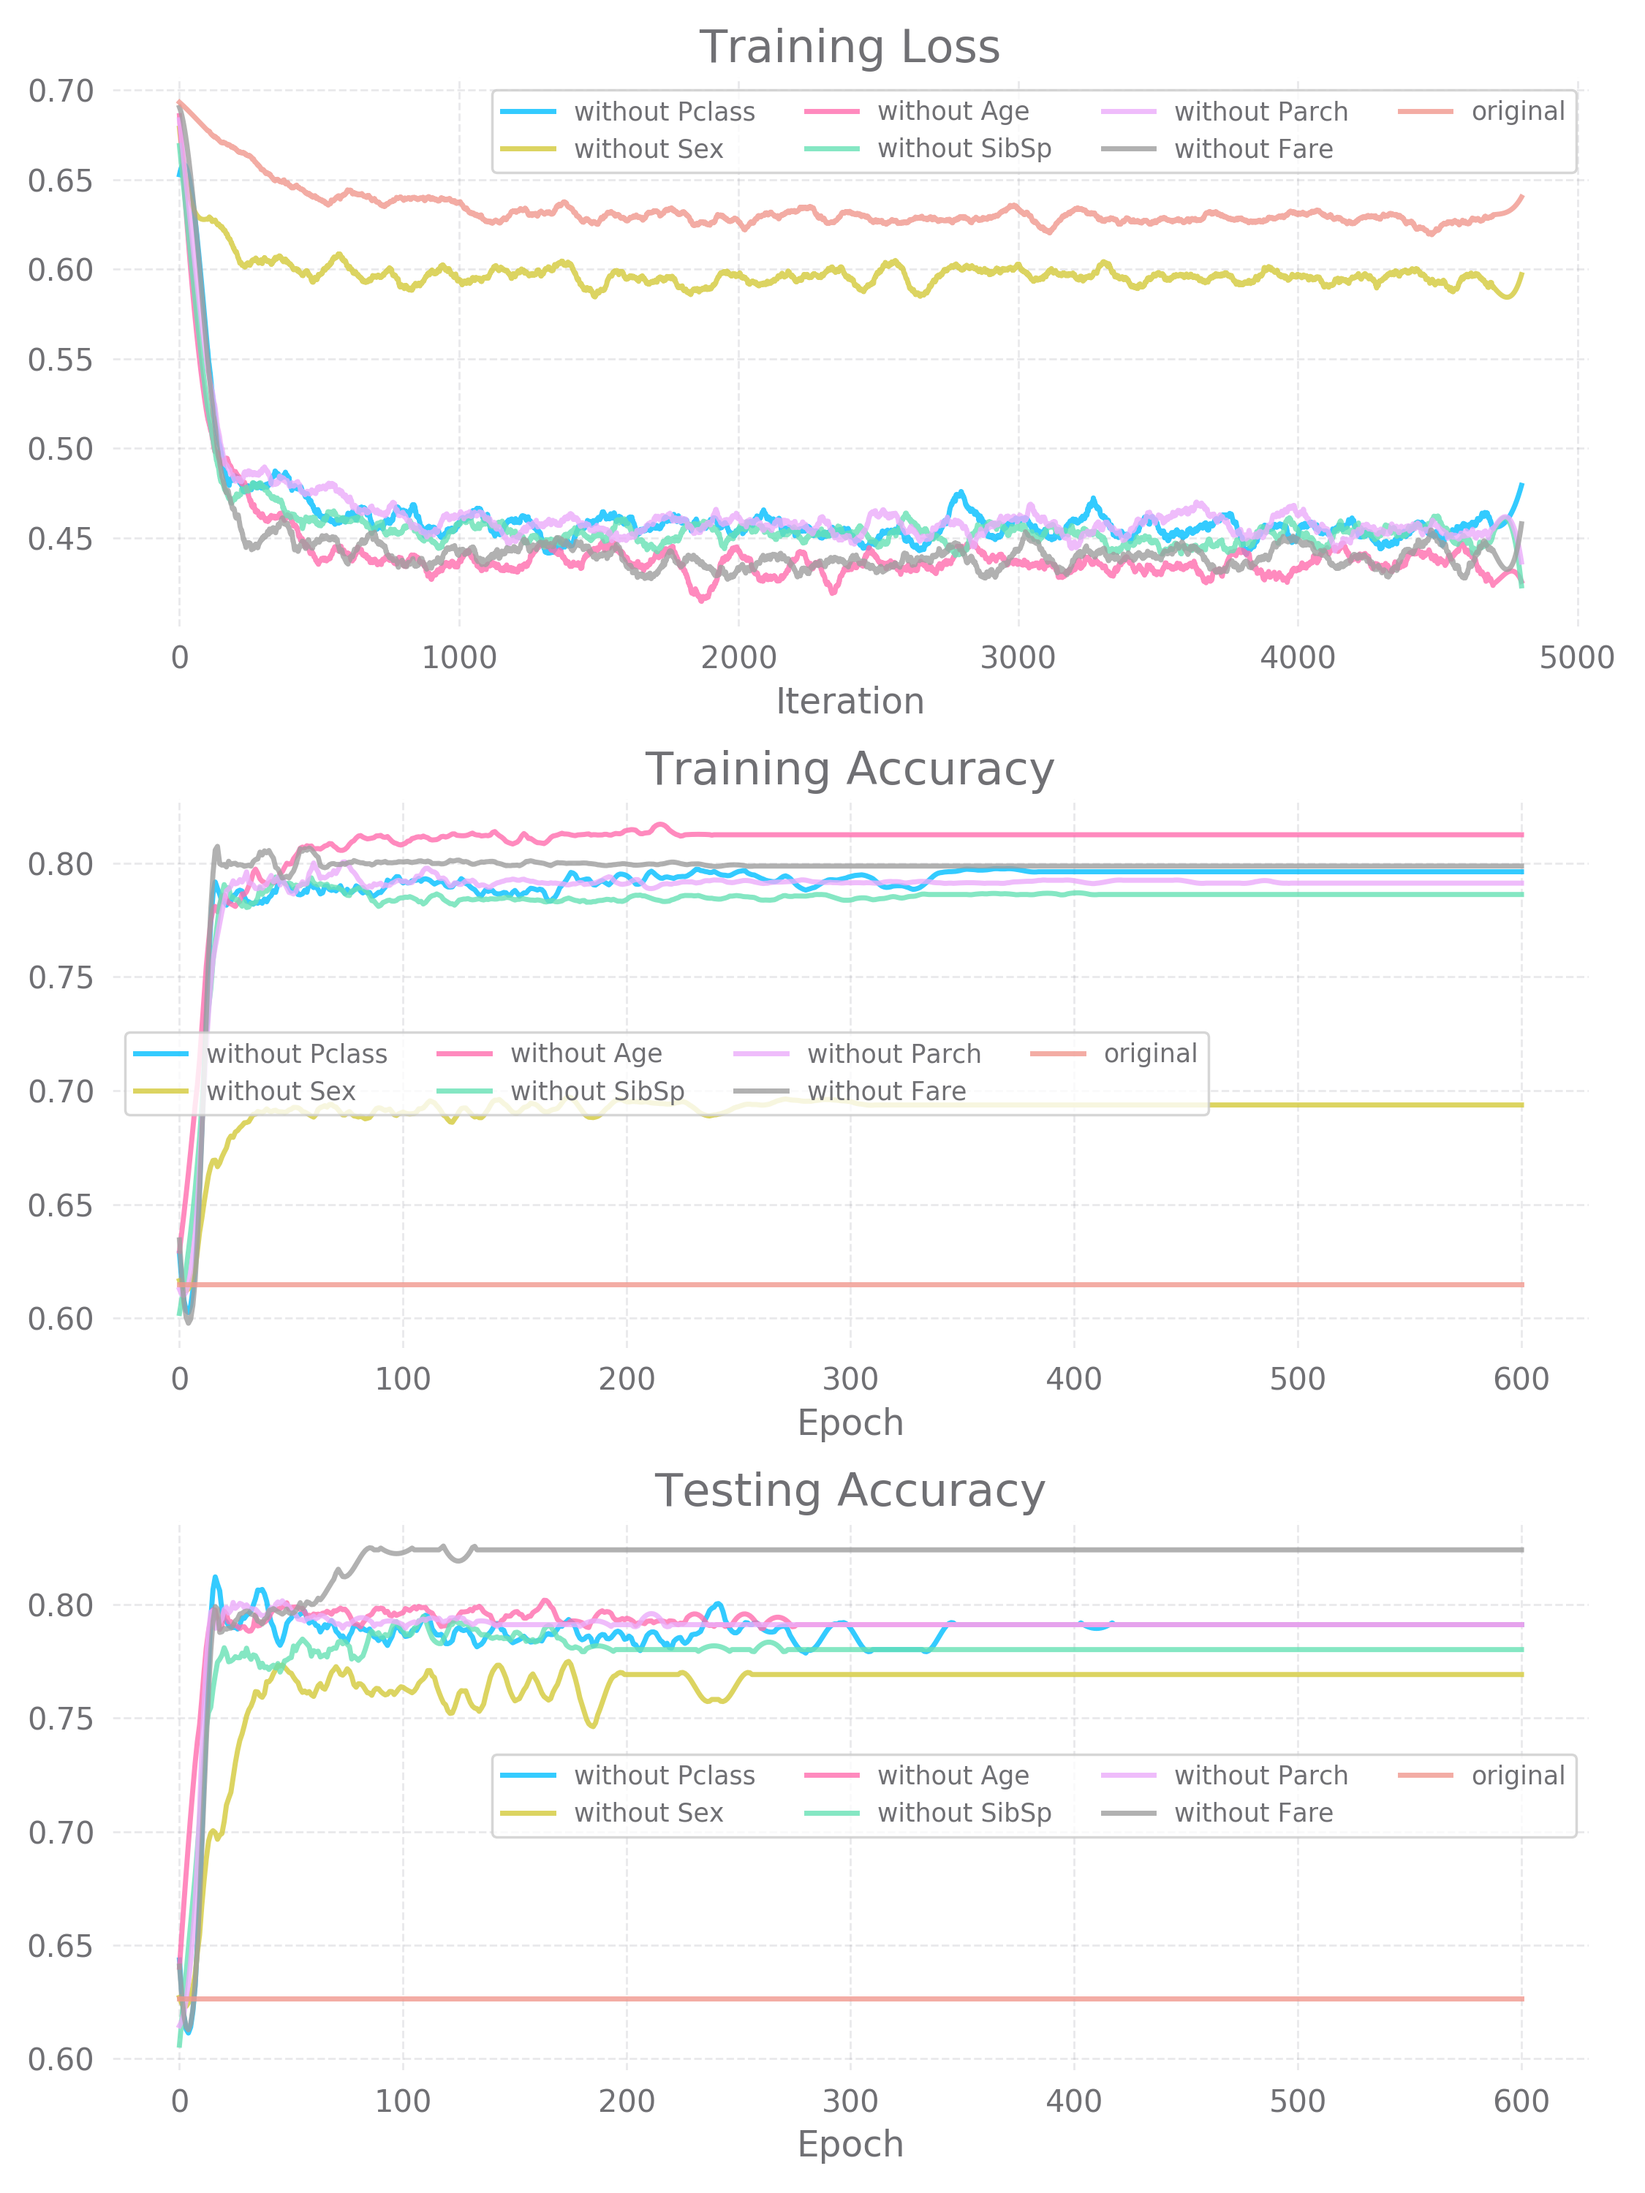
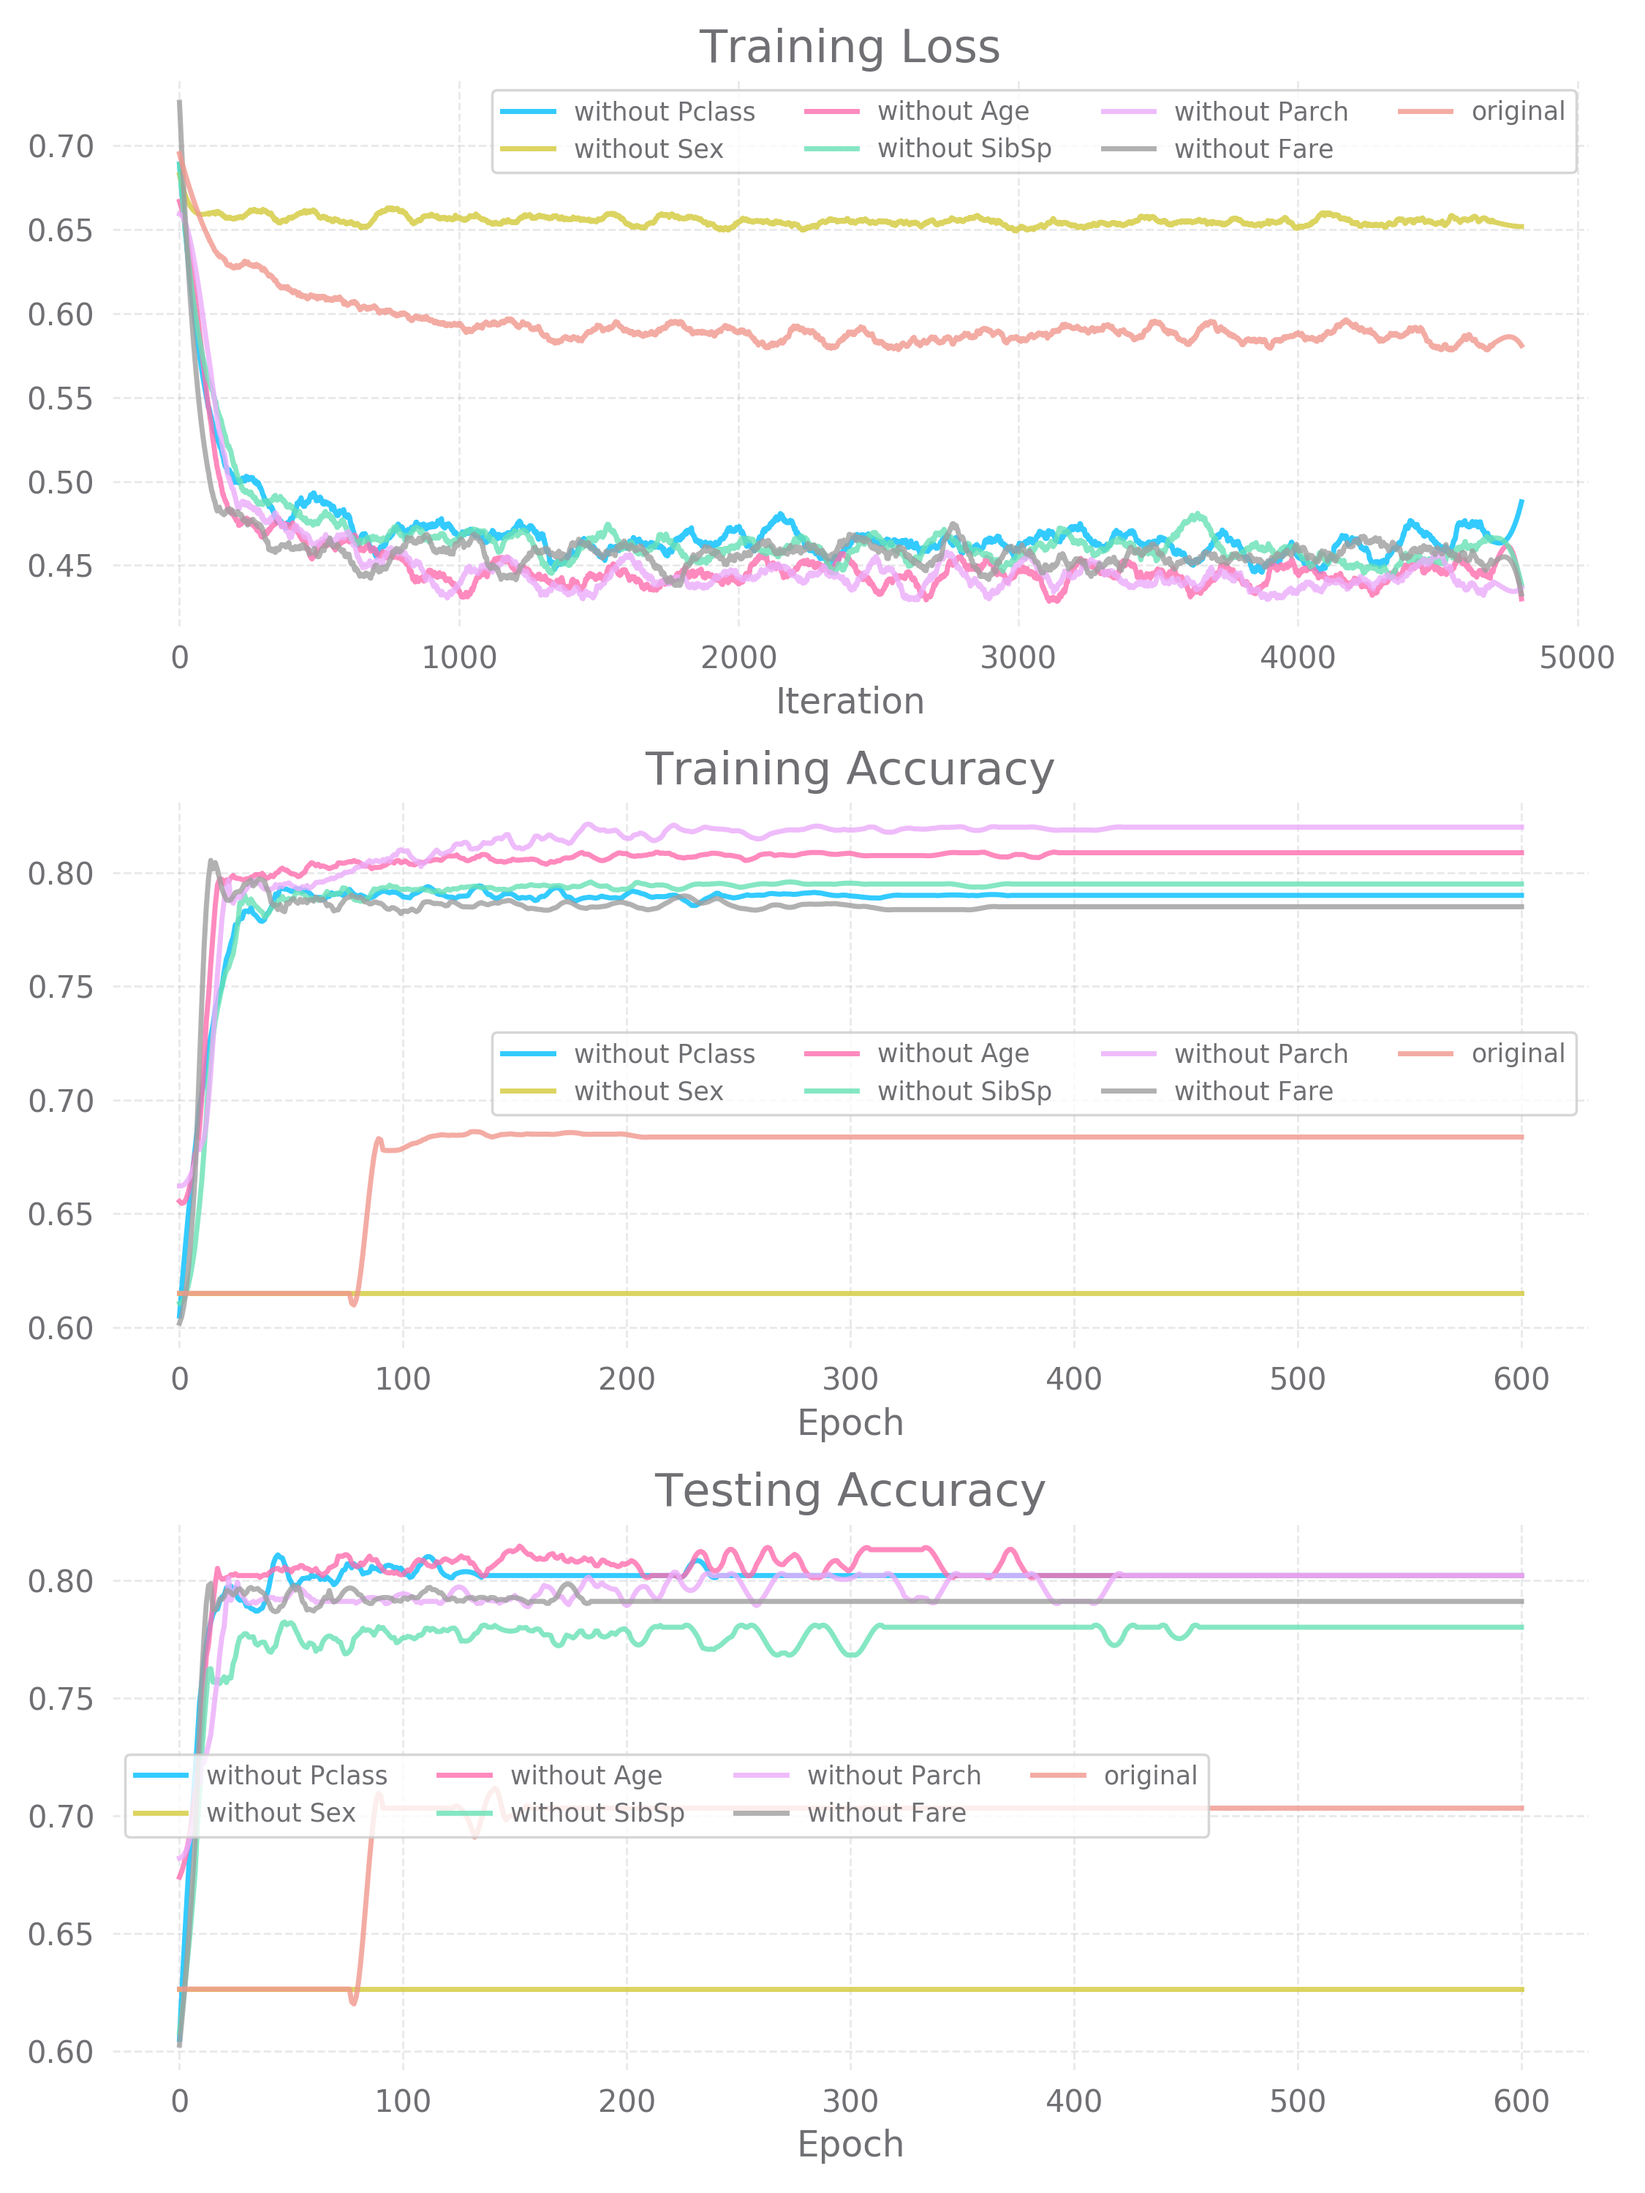
update utils

diff --git a/main.py b/main.py
@@ -8,6 +8,7 @@ import tqdm
 from scipy import signal
 from solver import Solver
 from model import FullyConnectedNet
+from util import *
 
 try:
     plt.style.use('gadfly')
@@ -16,245 +17,9 @@ except:
     pass
 
 np.random.seed(0)
-# plt.style.use('ggplot')
 OPTIMIZER = 'adam'
 NUM_EPOCH = 400
 
-
-def hyperpara_combination(hp_range, cur_set=[]):
-    if cur_set == []:
-        hp, r = list(hp_range.items())[0]
-        if not isinstance(r, list):
-            cur_set = [{hp: r}]
-        else:
-            cur_set = list(map(lambda x: {hp: x}, r))
-        del hp_range[hp]
-    if hp_range == {}:
-        return cur_set
-    else:
-        next_set = []
-        hp, r = list(hp_range.items())[0]
-        # print(hp, r)
-        if not (isinstance(r, list)):
-            tmp_set = copy.deepcopy(cur_set)
-            for i in tmp_set:
-                i.update({hp: r})
-            _ = map(lambda x: x.update({hp: r}), tmp_set)
-            # print('->', tmp_set)
-            next_set = next_set + tmp_set
-        else:
-            for j in r:
-                tmp_set = copy.deepcopy(cur_set)
-                for i in tmp_set:
-                    i.update({hp: j})
-                next_set = next_set + tmp_set
-                # print('->', tmp_set)
-        del hp_range[hp], cur_set
-        # print('->', next_set)
-        return hyperpara_combination(hp_range, next_set)
-
-
-def grid_search(data, **kwargs):
-    hp_range = {
-        'in_dim': kwargs.get('in_dim', 6),
-        'bs': kwargs.get('batch_size', 8),
-        'ws': kwargs.get('weight_scale', 1e-1),
-        'reg': kwargs.get('reg', 1e-3),
-        'lr_dec': kwargs.get('lr_dec', 0.99),
-        'lr': kwargs.get('lr', 1e-3)
-    }
-    # print(hp_range)
-    hyper_set = hyperpara_combination(hp_range)
-    # print(hyper_set)
-    acc = []
-    for s in tqdm.tqdm(hyper_set):
-        model = FullyConnectedNet([3, 3],
-                                  input_dim=s['in_dim'],
-                                  num_classes=2,
-                                  weight_scale=s['ws'],
-                                  reg=s['reg'])
-        solver = Solver(
-            model,
-            data,
-            update_rule=OPTIMIZER,
-            optim_config={
-                'learning_rate': s['lr'],
-            },
-            lr_decay=s['lr_dec'],
-            num_epochs=NUM_EPOCH,
-            batch_size=s['bs'],
-            print_every=100,
-            verbose=False)
-        solver.train()
-        acc.append(solver.check_accuracy(data['X_val'], data['y_val']))
-    print(max(acc))
-    print(hyper_set[np.argmax(acc)])
-    return
-
-
-def plot(solver, filename, a=1, m='-o'):
-    plt.subplot(3, 1, 1)
-    plt.title('Training Loss')
-    plt.xlabel('Iteration')
-
-    plt.subplot(3, 1, 2)
-    plt.title('Training Accuracy')
-    plt.xlabel('Epoch')
-
-    plt.subplot(3, 1, 3)
-    plt.title('Testing Accuracy')
-    plt.xlabel('Epoch')
-
-    plt.subplot(3, 1, 1)
-    plt.plot(solver.loss_history, 'o', markersize=4, alpha=a)
-    plt.subplot(3, 1, 2)
-    plt.plot(solver.train_acc_history, m, markersize=4, alpha=a)
-    plt.subplot(3, 1, 3)
-    plt.plot(solver.val_acc_history, m, markersize=4, alpha=a)
-
-    for i in [1, 2, 3]:
-        plt.subplot(3, 1, i)
-        # plt.legend(loc='upper center', ncol=4)
-    plt.gcf().set_size_inches(9, 12)
-    plt.tight_layout()
-    plt.savefig(os.path.join('./result/', filename), dpi=250)
-    plt.close()
-
-    return
-
-
-def plot_smooth(solver, filename, a=1, m='-o'):
-    plt.subplot(3, 1, 1)
-    plt.title('Training Loss')
-    plt.xlabel('Iteration')
-
-    plt.subplot(3, 1, 2)
-    plt.title('Training Accuracy')
-    plt.xlabel('Epoch')
-
-    plt.subplot(3, 1, 3)
-    plt.title('Testing Accuracy')
-    plt.xlabel('Epoch')
-
-    plt.subplot(3, 1, 1)
-    plt.plot(
-        sp.signal.savgol_filter(solver.loss_history, 401, 2),
-        m,
-        markersize=4,
-        alpha=a)
-    plt.subplot(3, 1, 2)
-    plt.plot(
-        sp.signal.savgol_filter(solver.train_acc_history, 9, 2),
-        m,
-        markersize=4,
-        alpha=a)
-    plt.subplot(3, 1, 3)
-    plt.plot(
-        sp.signal.savgol_filter(solver.val_acc_history, 9, 2),
-        m,
-        markersize=4,
-        alpha=a)
-
-    for i in [1, 2, 3]:
-        plt.subplot(3, 1, i)
-        # plt.legend(loc='upper center', ncol=4)
-    plt.gcf().set_size_inches(9, 12)
-    plt.tight_layout()
-    plt.savefig(os.path.join('./result/', filename), dpi=250)
-    plt.close()
-
-    return
-
-
-def plot_solvers(solvers, filename, alpha=1, m='-o'):
-    plt.subplot(3, 1, 1)
-    plt.title('Training Loss')
-    plt.xlabel('Iteration')
-
-    plt.subplot(3, 1, 2)
-    plt.title('Training Accuracy')
-    plt.xlabel('Epoch')
-
-    plt.subplot(3, 1, 3)
-    plt.title('Testing Accuracy')
-    plt.xlabel('Epoch')
-
-    plt.subplot(3, 1, 1)
-    for s in solvers:
-        plt.plot(s.loss_history, 'o', markersize=4, label=s.name, alpha=alpha)
-
-    plt.subplot(3, 1, 2)
-    for s in solvers:
-        plt.plot(
-            s.train_acc_history, m, markersize=4, label=s.name, alpha=alpha)
-
-    plt.subplot(3, 1, 3)
-    for s in solvers:
-        plt.plot(s.val_acc_history, m, markersize=4, label=s.name, alpha=alpha)
-
-    for i in [1, 2, 3]:
-        plt.subplot(3, 1, i)
-        plt.legend(ncol=4)
-    plt.gcf().set_size_inches(9, 12)
-    plt.tight_layout()
-    plt.savefig(os.path.join('./result/', filename), dpi=250)
-    plt.close()
-
-    return
-
-
-def plot_solvers_smooth(solvers, filename, alpha=1, m='-o'):
-    plt.subplot(3, 1, 1)
-    plt.title('Training Loss')
-    plt.xlabel('Iteration')
-
-    plt.subplot(3, 1, 2)
-    plt.title('Training Accuracy')
-    plt.xlabel('Epoch')
-
-    plt.subplot(3, 1, 3)
-    plt.title('Testing Accuracy')
-    plt.xlabel('Epoch')
-
-    plt.subplot(3, 1, 1)
-    for s in solvers:
-        plt.plot(
-            sp.signal.savgol_filter(s.loss_history, 201, 3),
-            # 'o',
-            markersize=4,
-            label=s.name,
-            alpha=alpha)
-
-    plt.subplot(3, 1, 2)
-    for s in solvers:
-        plt.plot(
-            sp.signal.savgol_filter(s.train_acc_history, 15, 2),
-            m,
-            markersize=4,
-            label=s.name,
-            alpha=alpha)
-
-    plt.subplot(3, 1, 3)
-    for s in solvers:
-        plt.plot(
-            sp.signal.savgol_filter(s.val_acc_history, 15, 2),
-            m,
-            markersize=4,
-            label=s.name,
-            alpha=alpha)
-
-    for i in [1, 2, 3]:
-        plt.subplot(3, 1, i)
-        plt.legend(ncol=4)
-    plt.gcf().set_size_inches(9, 12)
-    plt.tight_layout()
-    plt.savefig(os.path.join('./result/', filename), dpi=250)
-    plt.close()
-
-    return
-
-def smooth(value):
-    return sp.signal.savgol_filter(value, 5, 2)
 
 def problem1():
     data_df = pd.read_csv('titanic.csv')
@@ -371,18 +136,18 @@ def problem2():
     model_2 = FullyConnectedNet([3, 3],
                                 input_dim=6,
                                 num_classes=2,
-                                weight_scale=0.03,
-                                reg=0)
+                                weight_scale=5e-2,
+                                reg=1e-5)
     solver_2 = Solver(
         model_2,
         data,
         update_rule='sgd',
         optim_config={
-            'learning_rate': 0.01,
+            'learning_rate': 0.1,
         },
-        lr_decay=0.99999,
+        lr_decay=0.99,
         num_epochs=600,
-        batch_size=5,
+        batch_size=40,
         print_every=100,
         verbose=False,
         name='SGD')
@@ -805,10 +570,10 @@ def his(FEAT, feat_analysis, nbin, upper_bound=1e5):
 
 
 if __name__ == '__main__':
-    # problem1()
-    # problem2()
+    problem1()
+    problem2()
     problem3()
-    # problem4()
-    # problem5()
-    # problem6()
+    problem4()
+    problem5()
+    problem6()
     pass

diff --git a/util.py b/util.py
@@ -94,15 +94,15 @@ def grid_search(data, **kwargs):
 
 def plot(solver, filename, a=1, m='-o'):
     plt.subplot(3, 1, 1)
-    plt.title('Training loss')
+    plt.title('Training Loss')
     plt.xlabel('Iteration')
 
     plt.subplot(3, 1, 2)
-    plt.title('Training accuracy')
+    plt.title('Training Accuracy')
     plt.xlabel('Epoch')
 
     plt.subplot(3, 1, 3)
-    plt.title('Validation accuracy')
+    plt.title('Testing Accuracy')
     plt.xlabel('Epoch')
 
     plt.subplot(3, 1, 1)
@@ -125,15 +125,15 @@ def plot(solver, filename, a=1, m='-o'):
 
 def plot_smooth(solver, filename, a=1, m='-o'):
     plt.subplot(3, 1, 1)
-    plt.title('Training loss')
+    plt.title('Training Loss')
     plt.xlabel('Iteration')
 
     plt.subplot(3, 1, 2)
-    plt.title('Training accuracy')
+    plt.title('Training Accuracy')
     plt.xlabel('Epoch')
 
     plt.subplot(3, 1, 3)
-    plt.title('Validation accuracy')
+    plt.title('Testing Accuracy')
     plt.xlabel('Epoch')
 
     plt.subplot(3, 1, 1)
@@ -168,15 +168,15 @@ def plot_smooth(solver, filename, a=1, m='-o'):
 
 def plot_solvers(solvers, filename, alpha=1, m='-o'):
     plt.subplot(3, 1, 1)
-    plt.title('Training loss')
+    plt.title('Training Loss')
     plt.xlabel('Iteration')
 
     plt.subplot(3, 1, 2)
-    plt.title('Training accuracy')
+    plt.title('Training Accuracy')
     plt.xlabel('Epoch')
 
     plt.subplot(3, 1, 3)
-    plt.title('Validation accuracy')
+    plt.title('Testing Accuracy')
     plt.xlabel('Epoch')
 
     plt.subplot(3, 1, 1)
@@ -205,15 +205,15 @@ def plot_solvers(solvers, filename, alpha=1, m='-o'):
 
 def plot_solvers_smooth(solvers, filename, alpha=1, m='-o'):
     plt.subplot(3, 1, 1)
-    plt.title('Training loss')
+    plt.title('Training Loss')
     plt.xlabel('Iteration')
 
     plt.subplot(3, 1, 2)
-    plt.title('Training accuracy')
+    plt.title('Training Accuracy')
     plt.xlabel('Epoch')
 
     plt.subplot(3, 1, 3)
-    plt.title('Validation accuracy')
+    plt.title('Testing Accuracy')
     plt.xlabel('Epoch')
 
     plt.subplot(3, 1, 1)
@@ -252,4 +252,7 @@ def plot_solvers_smooth(solvers, filename, alpha=1, m='-o'):
     plt.close()
 
     return
+
+def smooth(value):
+    return sp.signal.savgol_filter(value, 5, 2)
 

diff --git a/model.py b/model.py
@@ -213,7 +213,7 @@ class FullyConnectedNet(object):
                 dh, cache[i])
             grads['W' + str(i)] += self.params['W' + str(i)] * self.reg
         pass
-        #print(grads['gamma1'])
+
         ############################################################################
         #                             END OF YOUR CODE                             #
         ############################################################################
